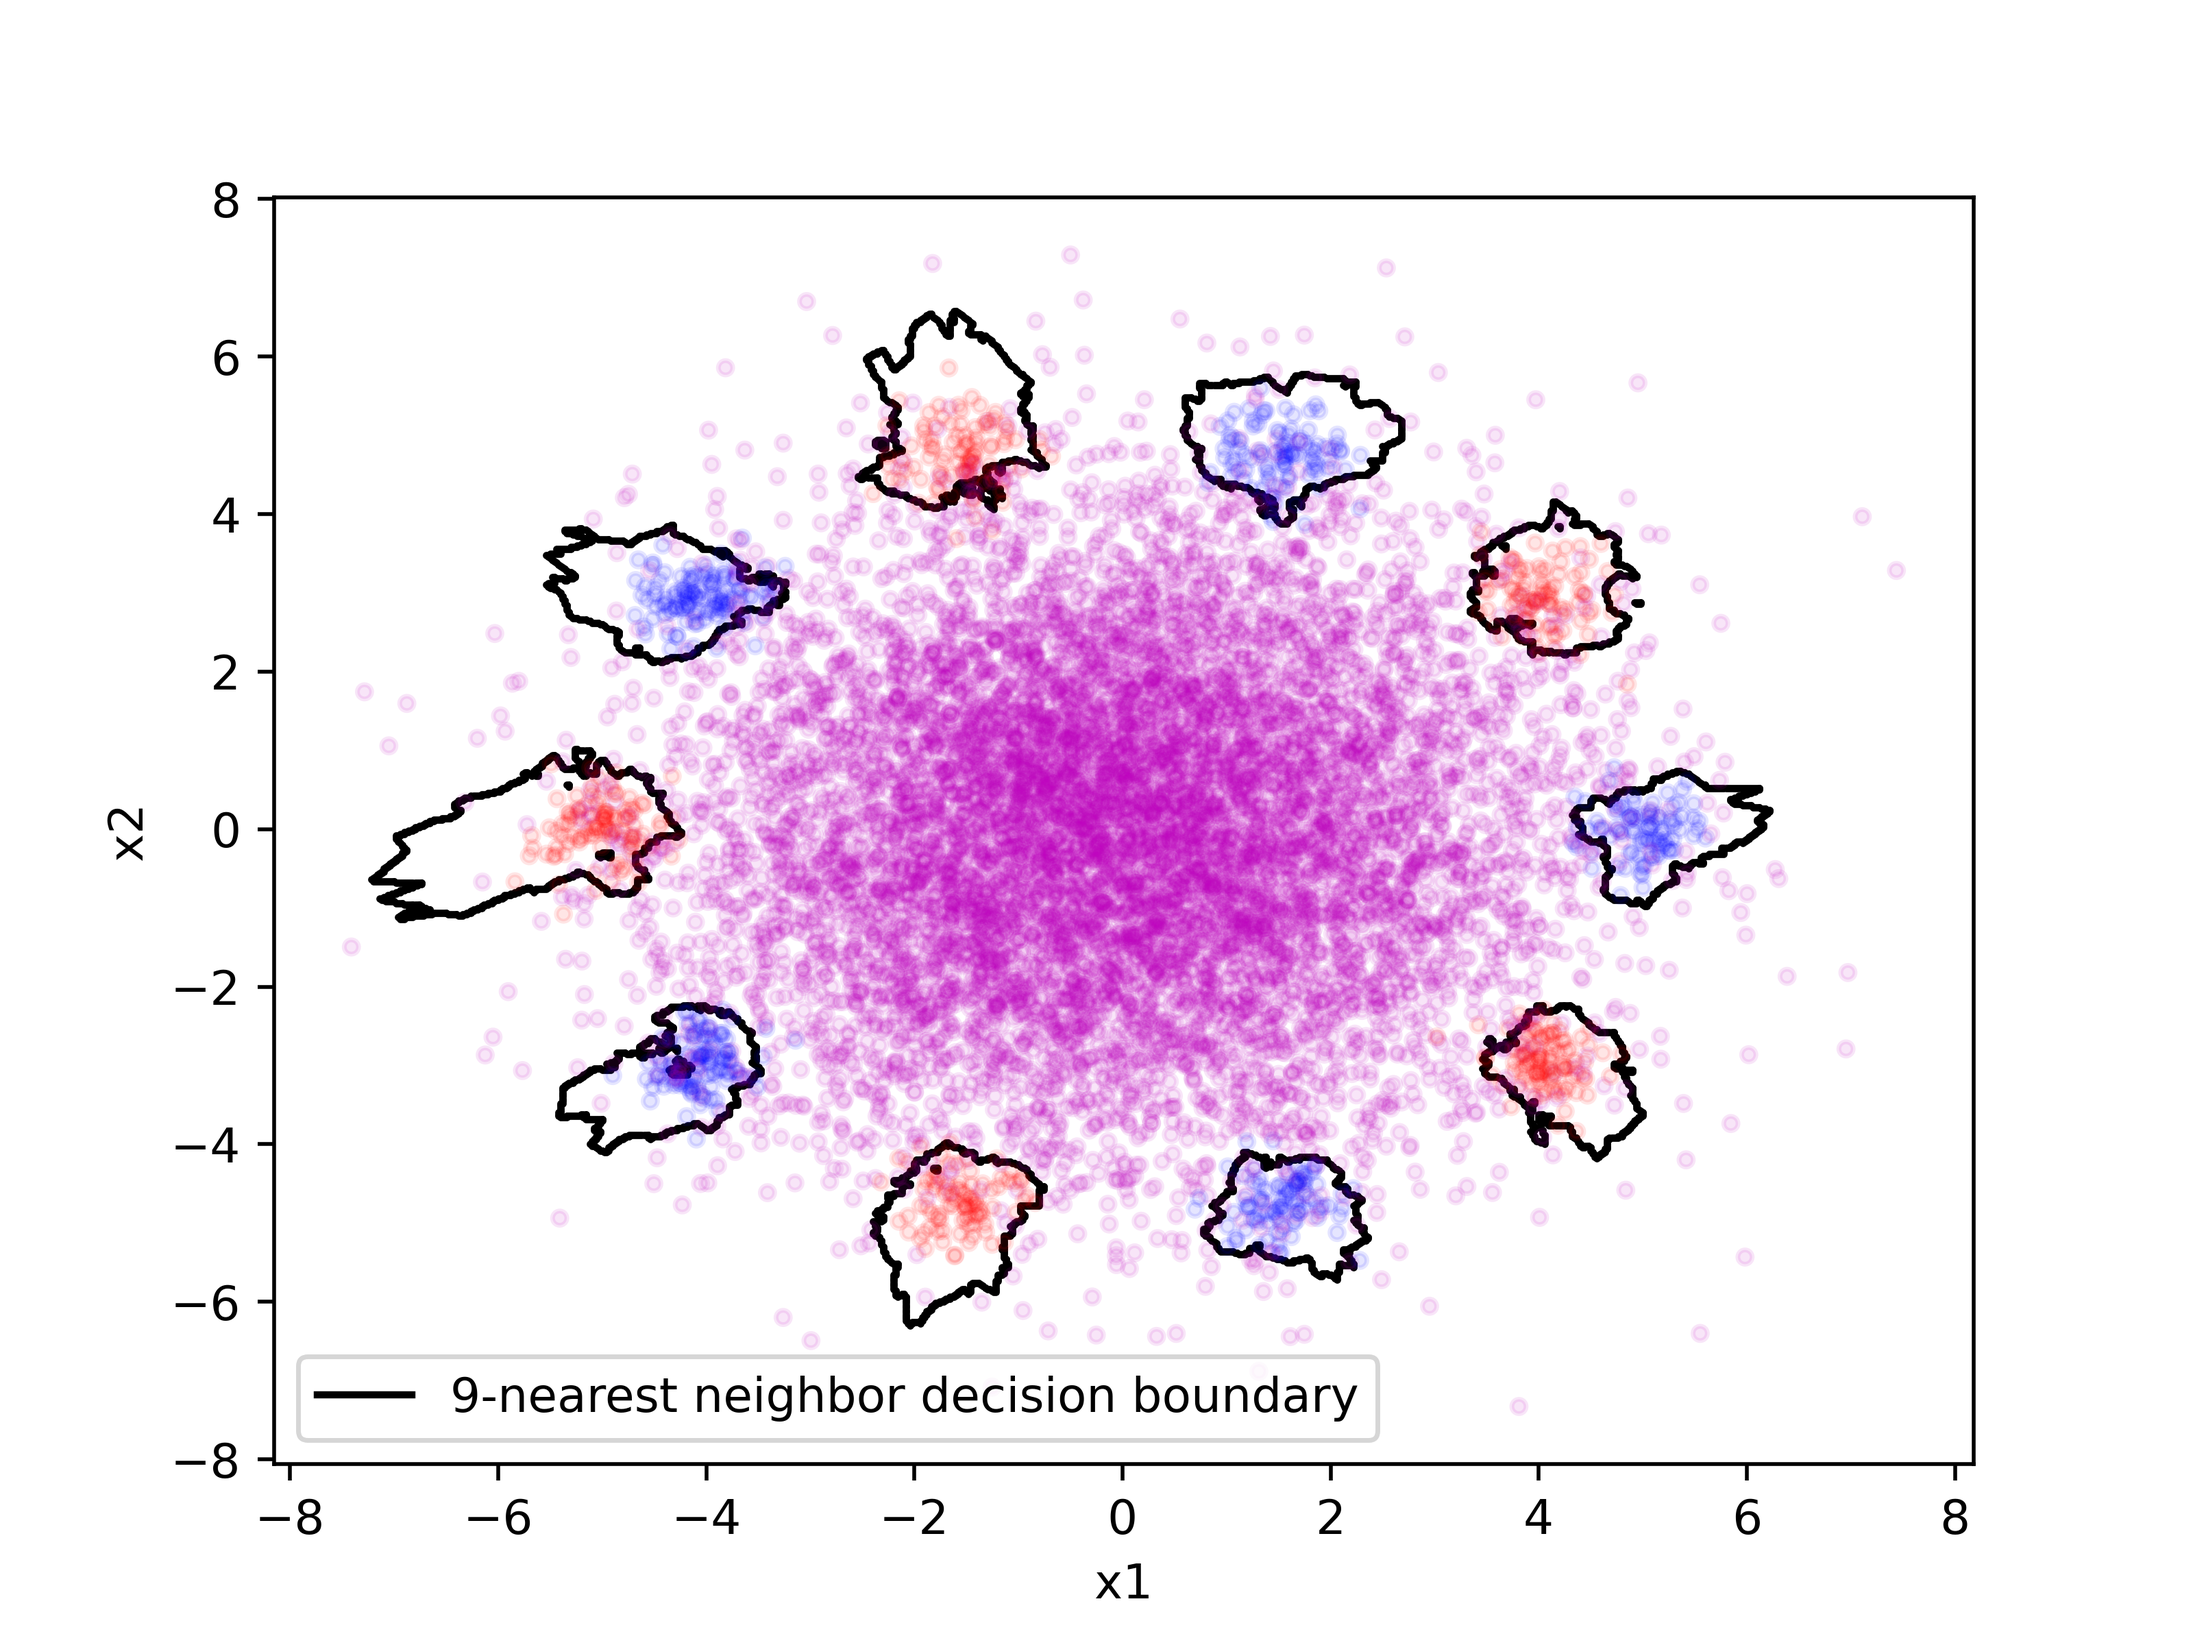
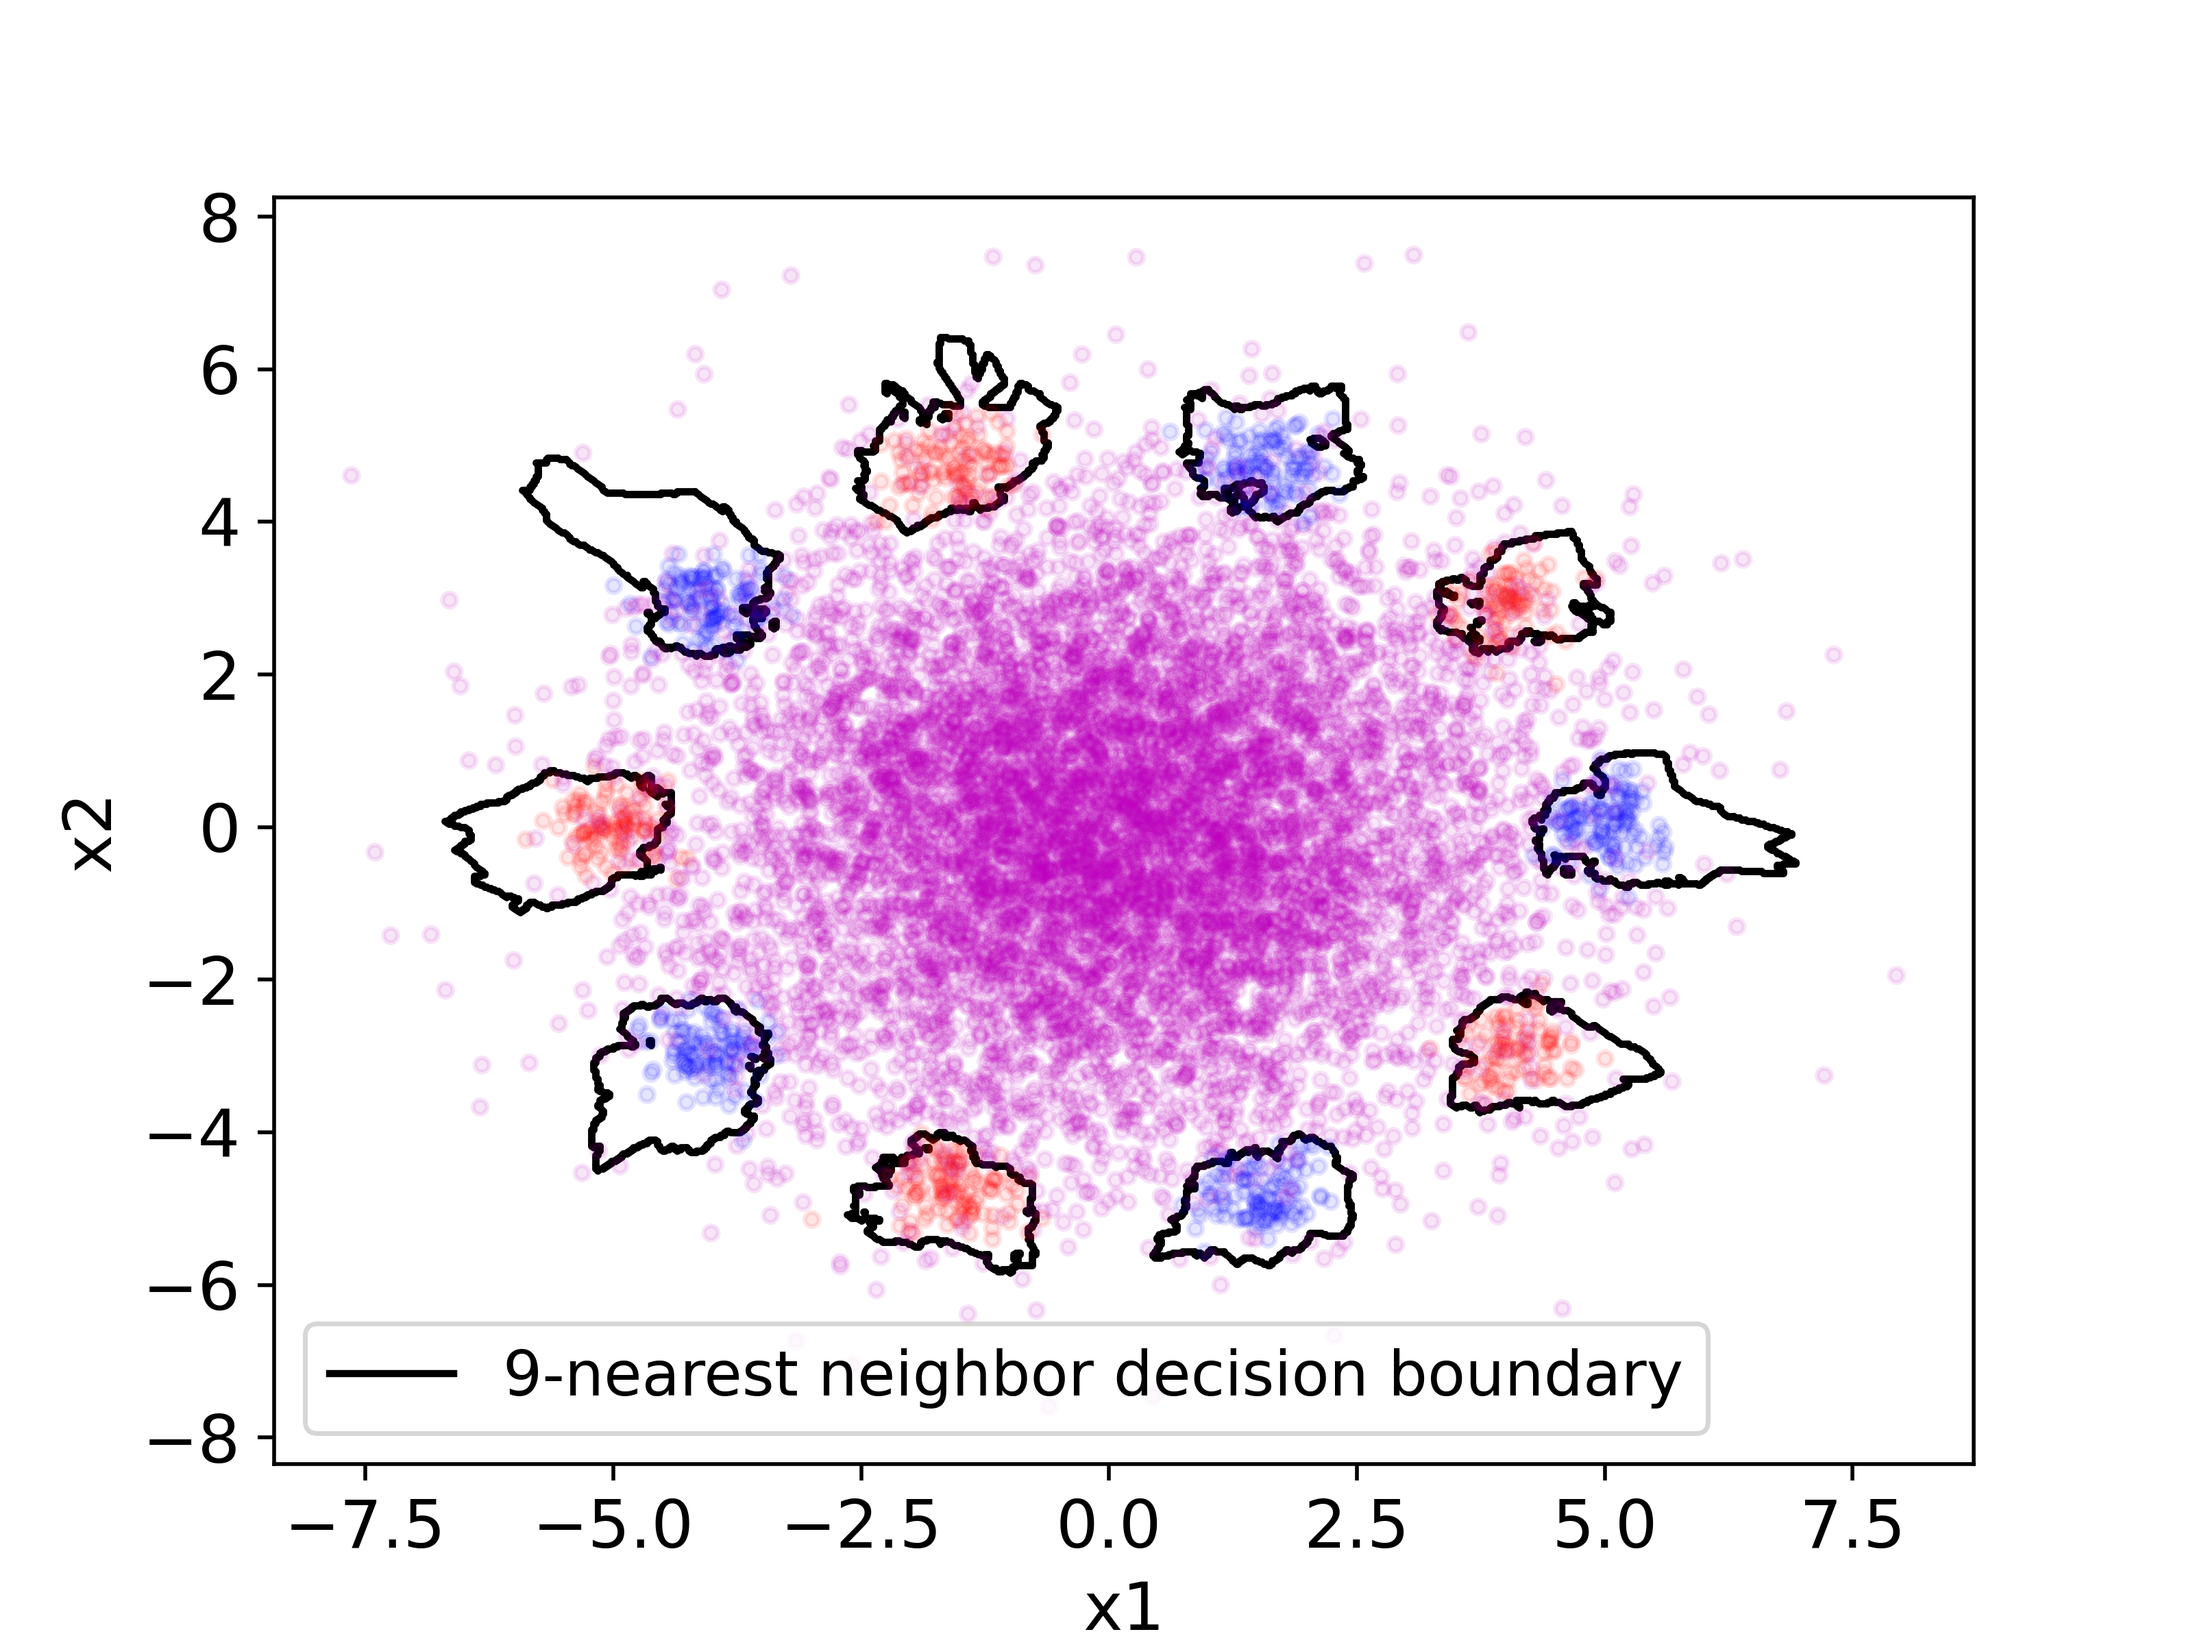
updating font size 2

diff --git a/knearest/exampleBoundary.py b/knearest/exampleBoundary.py
@@ -5,6 +5,10 @@ from dataset import CustomSyntheticDataset
 from sklearn.neighbors import NearestNeighbors, KNeighborsClassifier
 from matplotlib.colors import ListedColormap
 import matplotlib.lines as mlines
+import matplotlib
+
+font = {'size'   : 14}
+matplotlib.rc('font', **font)
 
 
 
@@ -86,7 +90,7 @@ if __name__ == "__main__":
   ax, boundary = printDecBoundary(classifier=classifier,ax=ax,detail=1000)
   train_dataset.printSample(ax=ax,alpha=0.1)
   black_line = mlines.Line2D([], [], color='black',markersize=15, label=r'9-nearest neighbor decision boundary')
-  ax.legend(handles=[black_line])
+  ax.legend(handles=[black_line],prop={'size': 13})
 
   ax.set_xlabel('x1')
   ax.set_ylabel('x2')

diff --git a/knearest/printPlot.py b/knearest/printPlot.py
@@ -1,7 +1,11 @@
 import numpy as np
 import matplotlib.pyplot as plt
+import matplotlib
 
-observation = np.load('knearest/observation.npy')
+font = {'size'   : 14}
+matplotlib.rc('font', **font)
+
+observation = 100*np.load('knearest/observation.npy')
 
 mean = np.mean(observation,axis=0)
 stdDev = np.std(observation,axis=0)
@@ -10,6 +14,7 @@ fig,ax = plt.subplots()
 bpl = ax.boxplot(observation,positions=np.arange(1,11))
 
 ax.set_xlabel('k value')
-ax.set_ylabel('Accuracy on test set')
+ax.set_ylabel('Accuracy on test set (%)')
+ax.set_ybound([60,100])
 
 plt.savefig('knearest/changingNeighbourNum',dpi=500)

diff --git a/knearest/knearestPerformance.py b/knearest/knearestPerformance.py
@@ -4,7 +4,10 @@ import itertools
 from dataset import CustomSyntheticDataset
 from sklearn.neighbors import NearestNeighbors, KNeighborsClassifier
 from matplotlib.colors import ListedColormap
+import matplotlib
 
+font = {'size'   : 14}
+matplotlib.rc('font', **font)
 
 
 

diff --git a/synthExp3/printOvertrain.py b/synthExp3/printOvertrain.py
@@ -13,7 +13,7 @@ from dataset import CustomSyntheticDataset
 import pickle
 import matplotlib
 
-font = {'size'   : 15}
+font = {'size'   : 13}
 matplotlib.rc('font', **font)
 
 observationsTrain = np.load('synthExp3/overfitTrain.npy')
